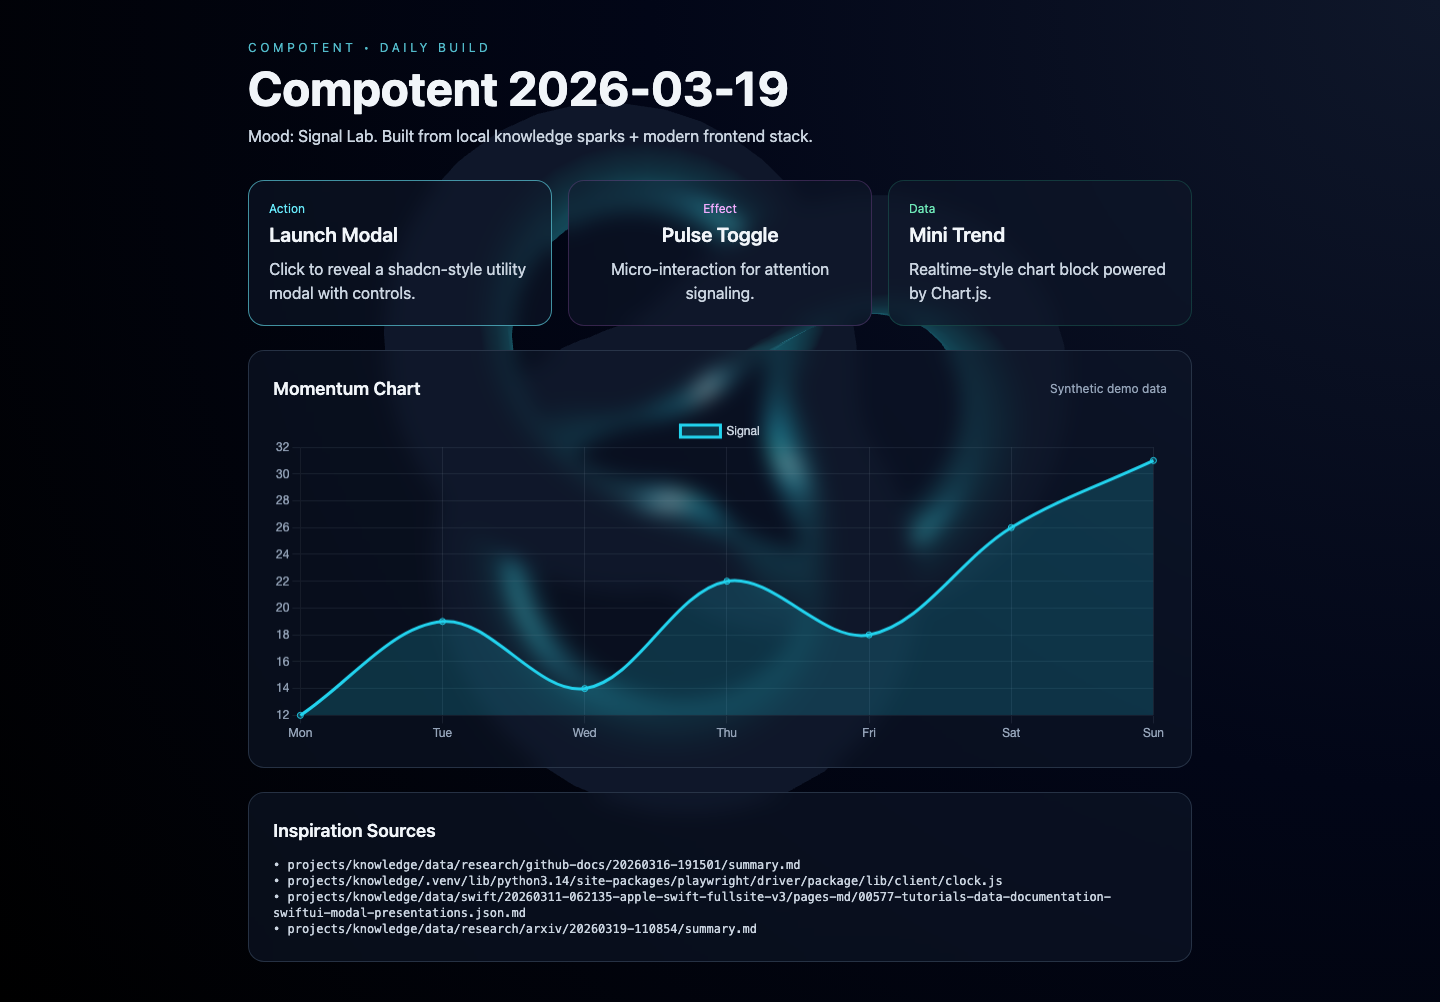
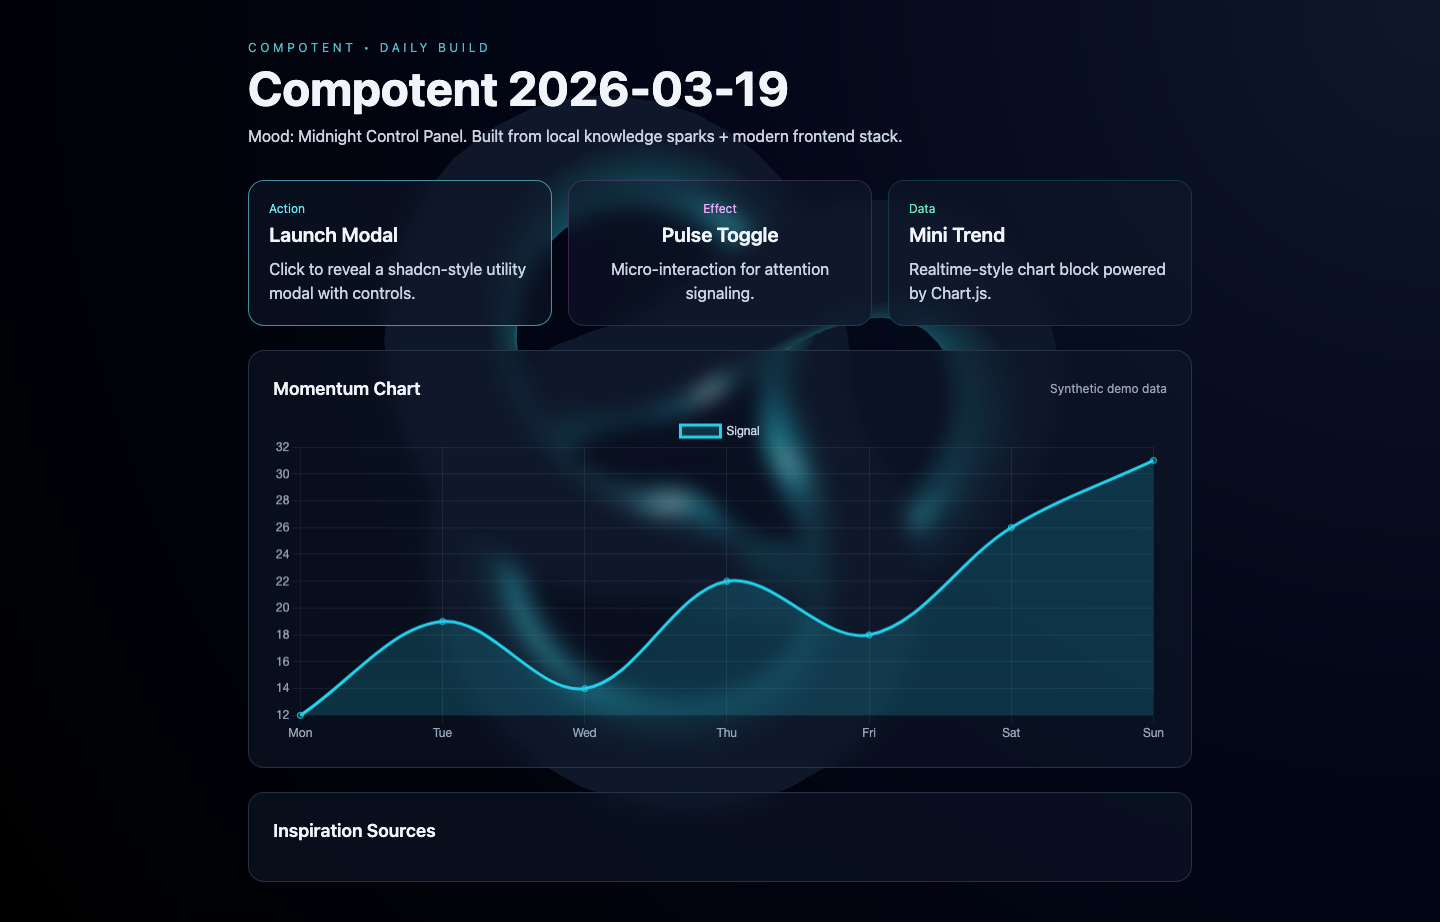
feat(compotent): add piece-2026-03-19

diff --git a/pieces/piece-2026-03-19/index.html b/pieces/piece-2026-03-19/index.html
@@ -20,7 +20,7 @@
     <header class="mb-8">
       <p class="text-xs uppercase tracking-[0.3em] text-cyan-300/80">Compotent • Daily Build</p>
       <h1 class="text-3xl md:text-5xl font-bold mt-2">Compotent 2026-03-19</h1>
-      <p class="text-slate-300 mt-3">Mood: Signal Lab. Built from local knowledge sparks + modern frontend stack.</p>
+      <p class="text-slate-300 mt-3">Mood: Midnight Control Panel. Built from local knowledge sparks + modern frontend stack.</p>
     </header>
 
     <section class="grid md:grid-cols-3 gap-4">
@@ -53,10 +53,7 @@
 
     <section class="glass rounded-2xl p-6 mt-6 border border-slate-700/70">
       <h3 class="text-lg font-semibold">Inspiration Sources</h3>
-      <pre class="mt-3 text-xs text-slate-300 whitespace-pre-wrap">• projects/knowledge/data/research/github-docs/20260316-191501/summary.md
-• projects/knowledge/.venv/lib/python3.14/site-packages/playwright/driver/package/lib/client/clock.js
-• projects/knowledge/data/swift/20260311-062135-apple-swift-fullsite-v3/pages-md/00577-tutorials-data-documentation-swiftui-modal-presentations.json.md
-• projects/knowledge/data/research/arxiv/20260319-110854/summary.md</pre>
+      <pre class="mt-3 text-xs text-slate-300 whitespace-pre-wrap"></pre>
     </section>
   </main>
 

diff --git a/pieces/piece-2026-03-19/README.md b/pieces/piece-2026-03-19/README.md
@@ -1,6 +1,6 @@
 # Compotent 2026-03-19
 
-> Fast build. Sharp edges. Surprisingly useful.
+> Clean UI, weird energy, zero fluff.
 
 ## What this is
 
@@ -35,14 +35,11 @@ Playwright smoke test confirms:
 
 ## Build mood
 
-**Signal Lab**
+**Midnight Control Panel**
 
 ## Inspiration refs from knowledge base
 
-- projects/knowledge/data/research/github-docs/20260316-191501/summary.md
-- projects/knowledge/.venv/lib/python3.14/site-packages/playwright/driver/package/lib/client/clock.js
-- projects/knowledge/data/swift/20260311-062135-apple-swift-fullsite-v3/pages-md/00577-tutorials-data-documentation-swiftui-modal-presentations.json.md
-- projects/knowledge/data/research/arxiv/20260319-110854/summary.md
+
 
 ## Artifacts
 

diff --git a/INDEX.md b/INDEX.md
@@ -1,3 +1,4 @@
 # Compotent Index
 
 - 2026-03-19: [piece-2026-03-19](./pieces/piece-2026-03-19) — Signal Lab
+- 2026-03-19: [piece-2026-03-19](./pieces/piece-2026-03-19) — Midnight Control Panel
